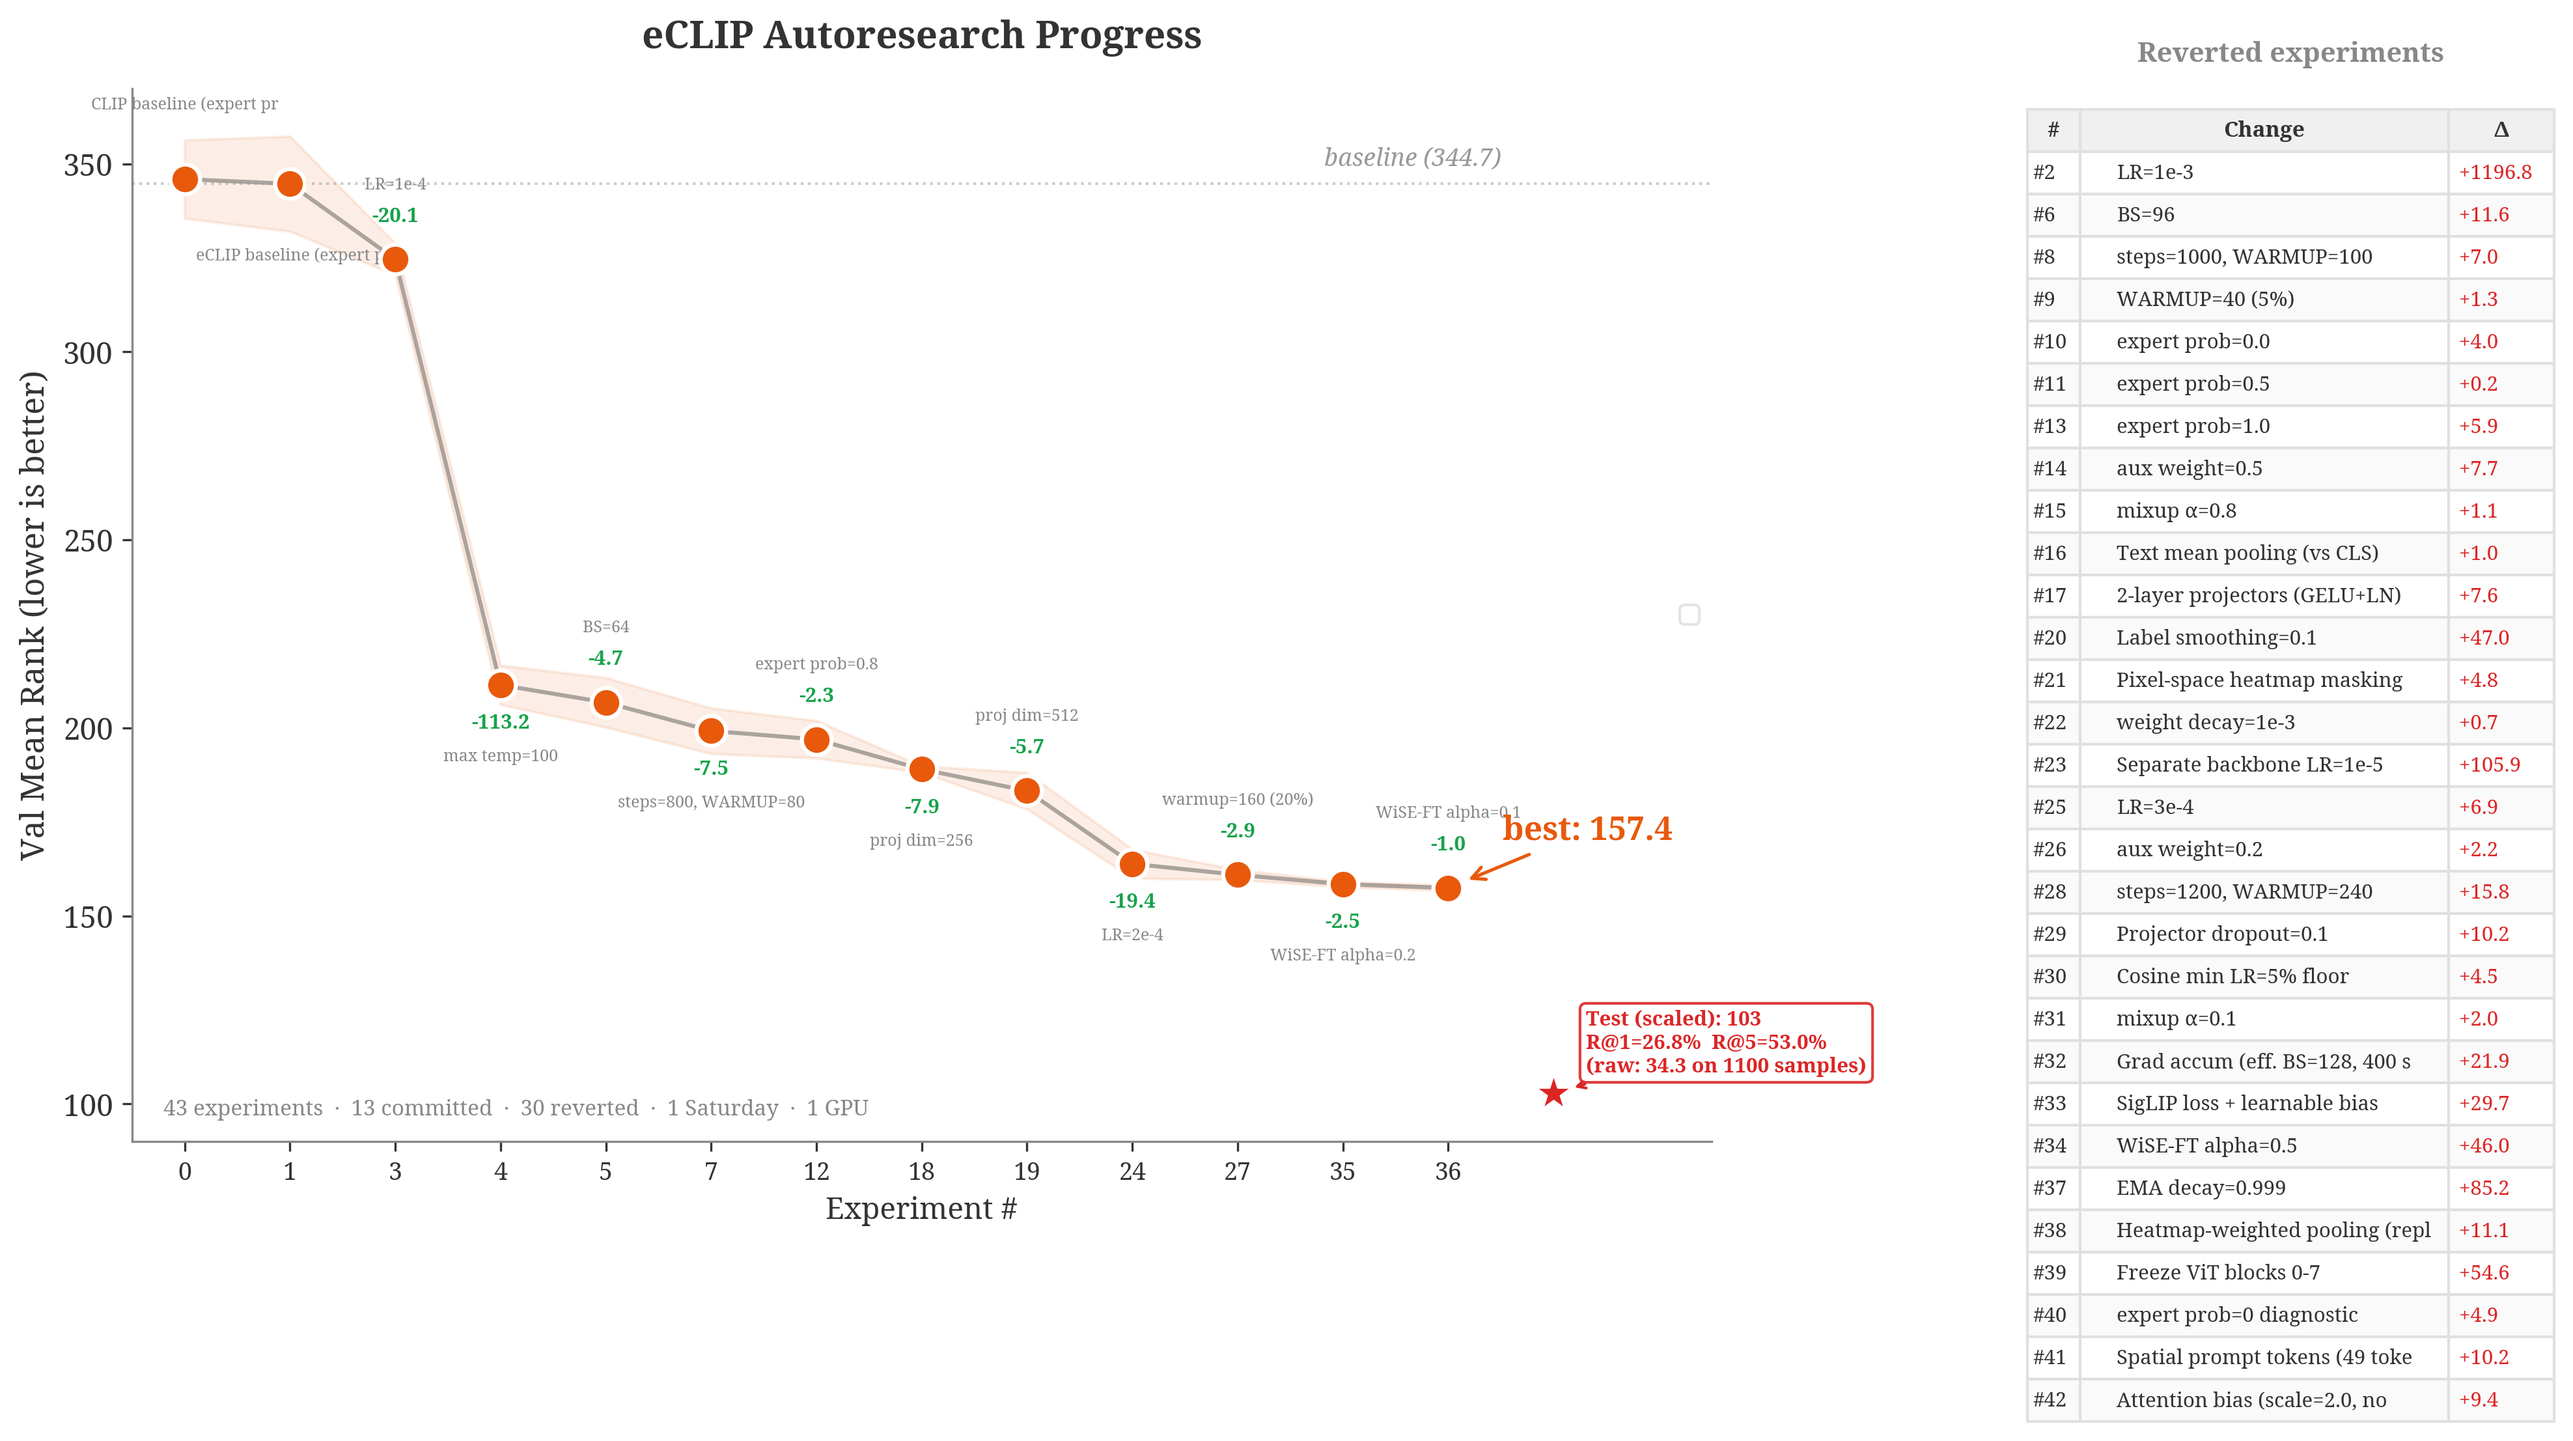
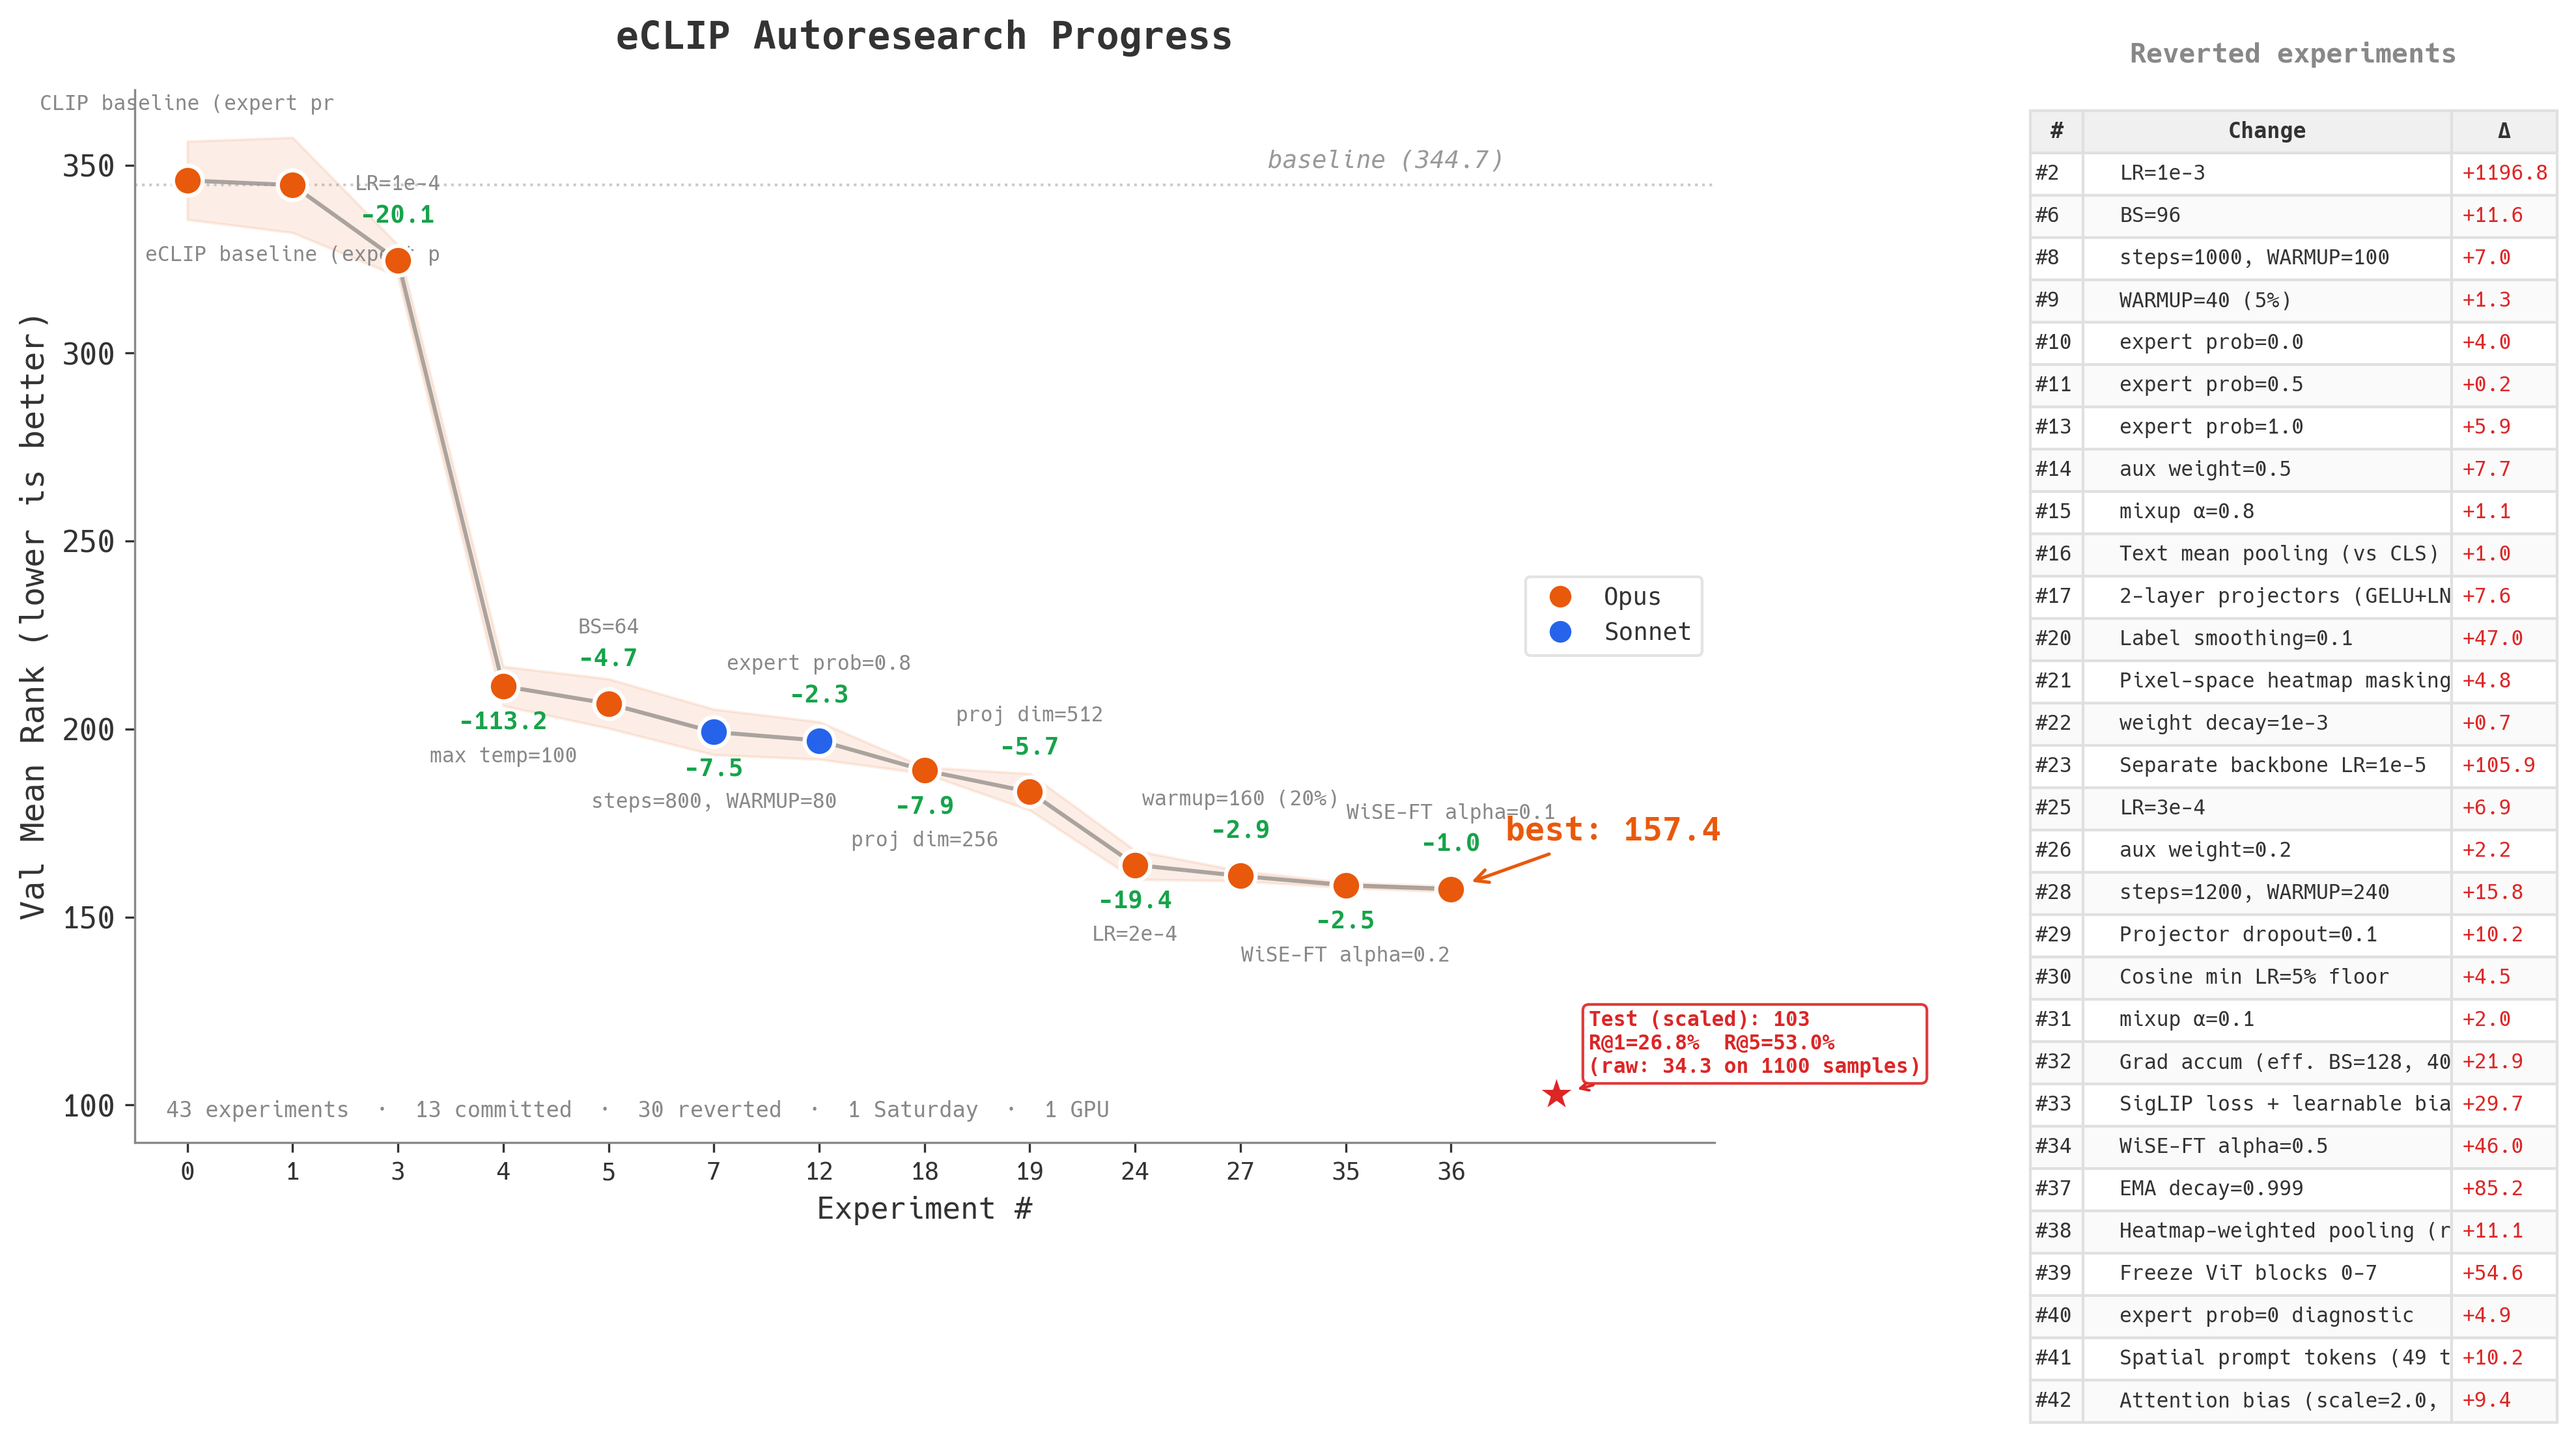
polish progress plots: Hack monospace font, fix model colors after merge
- All text in Hack monospace for terminal/dev aesthetic
- Fix parse_git_log to work after branch merge into main
- Opus (orange) vs Sonnet (blue) distinction restored
- Larger, more readable data labels
- 300 DPI output

diff --git a/autoresearch/plot_results.py b/autoresearch/plot_results.py
@@ -65,7 +65,7 @@ def parse_git_log():
     """Extract experiment data from structured commit messages."""
     result = subprocess.run(
         ["git", "log", "--reverse", "--format=%H%n%aI%n%s%n%b%n---END---",
-         "autoresearch-ukiyo", "--not", "main"],
+         "autoresearch-ukiyo"],
         capture_output=True, text=True,
         cwd=Path(__file__).parent.parent,
     )
@@ -174,9 +174,9 @@ def plot(all_experiments, committed_experiments, dark=False):
         facecolor = "white"
 
     plt.rcParams.update({
-        "font.family": "serif",
-        "font.serif": ["Noto Serif", "DejaVu Serif", "Times New Roman"],
-        "mathtext.fontset": "dejavuserif",
+        "font.family": "monospace",
+        "font.monospace": ["Hack", "Noto Sans Mono", "DejaVu Sans Mono"],
+        "mathtext.fontset": "dejavusans",
         "font.size": 11,
         "axes.spines.top": False,
         "axes.spines.right": False,
@@ -275,11 +275,13 @@ def plot(all_experiments, committed_experiments, dark=False):
             color = delta_green if delta < 0 else delta_red
             ax.annotate(f"{delta:+.1f}", (i, ranks[i]),
                         textcoords="offset points", xytext=(0, delta_y),
-                        ha="center", fontsize=7.5, color=color, fontweight="bold")
+                        ha="center", fontsize=9, color=color, fontweight="bold",
+                        family="monospace")
 
         ax.annotate(desc, (i, ranks[i]),
                     textcoords="offset points", xytext=(0, desc_y),
-                    ha="center", fontsize=6, color=fg_dim)
+                    ha="center", fontsize=7.5, color=fg_dim,
+                    family="monospace")
 
     # Annotate best
     best_idx = np.argmin(ranks)
@@ -384,10 +386,10 @@ def plot(all_experiments, committed_experiments, dark=False):
         # Style the table
         for (row, col), cell in table.get_celld().items():
             cell.set_edgecolor(table_edge)
-            cell.set_text_props(family="serif", color=fg)
+            cell.set_text_props(family="monospace", color=fg)
             if row == 0:
                 cell.set_facecolor(table_header)
-                cell.set_text_props(fontweight="bold", fontsize=8, family="serif", color=fg)
+                cell.set_text_props(fontweight="bold", fontsize=8, family="monospace", color=fg)
             else:
                 cell.set_facecolor(table_bg if row % 2 == 1 else table_alt)
                 # Color deltas
